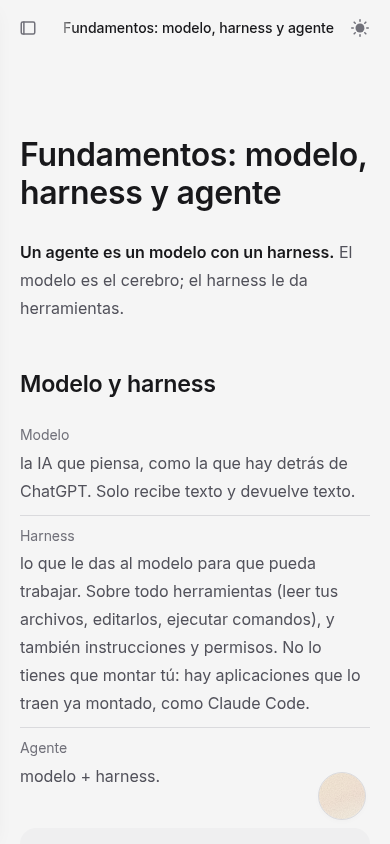
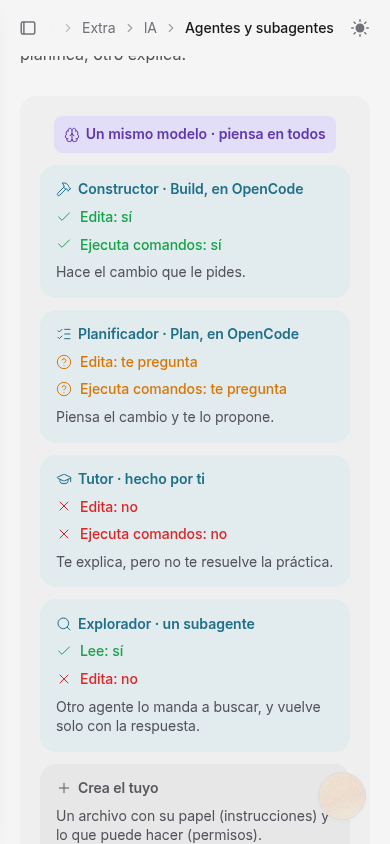
docs(readme): show the richer page pieces in the screenshots

diff --git a/README.md b/README.md
@@ -11,10 +11,10 @@ answer) and the AI turns it into shared notes. No one has to learn git or a fram
 take part.
 
 <p align="center">
-  <img src="docs/screenshots/page.png" alt="A page written by the daily pass: a short definition, a table and a diagram" width="860">
+  <img src="docs/screenshots/diagram.png" alt="A page written by the daily pass, with a diagram of four agent roles and what each one may do" width="860">
 </p>
 
-<p align="center"><sub>A page the hive wrote from the class's notes. The diagram is part of the page.</sub></p>
+<p align="center"><sub>A page the hive wrote. The diagram is part of the page, not an image. This instance writes in Spanish.</sub></p>
 
 ## The thesis
 
@@ -45,22 +45,27 @@ See [ROADMAP.md](ROADMAP.md).
 
 ## Screenshots
 
+A page can hold more than text: diagrams, charts, terminal sessions and agent replays that
+you step through.
+
 <table>
   <tr>
-    <td width="50%"><img src="docs/screenshots/page-dark.png" alt="A page in dark mode"></td>
-    <td width="50%"><img src="docs/screenshots/admin.png" alt="The admin panel with the content tree"></td>
+    <td width="50%"><img src="docs/screenshots/replay.png" alt="An agent session replayed step by step: the request, the files it read and edited, and its answer"></td>
+    <td width="50%"><img src="docs/screenshots/chart.png" alt="A scatter chart of quality against cost per task, on a logarithmic axis"></td>
   </tr>
   <tr>
-    <td align="center"><sub>Light and dark, picked per person.</sub></td>
-    <td align="center"><sub>The admin panel: the tree the pass writes into.</sub></td>
+    <td align="center"><sub>An agent session you can play or step through.</sub></td>
+    <td align="center"><sub>A chart with real axes, drawn from the data in the page.</sub></td>
+  </tr>
+  <tr>
+    <td width="50%"><img src="docs/screenshots/diagram-dark.png" alt="The same diagram in dark mode"></td>
+    <td width="50%" align="center"><img src="docs/screenshots/mobile.png" alt="The same diagram on a phone, stacked in one column" width="260"></td>
+  </tr>
+  <tr>
+    <td align="center"><sub>Dark mode.</sub></td>
+    <td align="center"><sub>On a phone the diagram stacks into one column.</sub></td>
   </tr>
 </table>
-
-<p align="center">
-  <img src="docs/screenshots/mobile.png" alt="The same page on a phone" width="300">
-</p>
-
-<p align="center"><sub>It reads fine on a phone.</sub></p>
 
 ## Self-hosting
 
